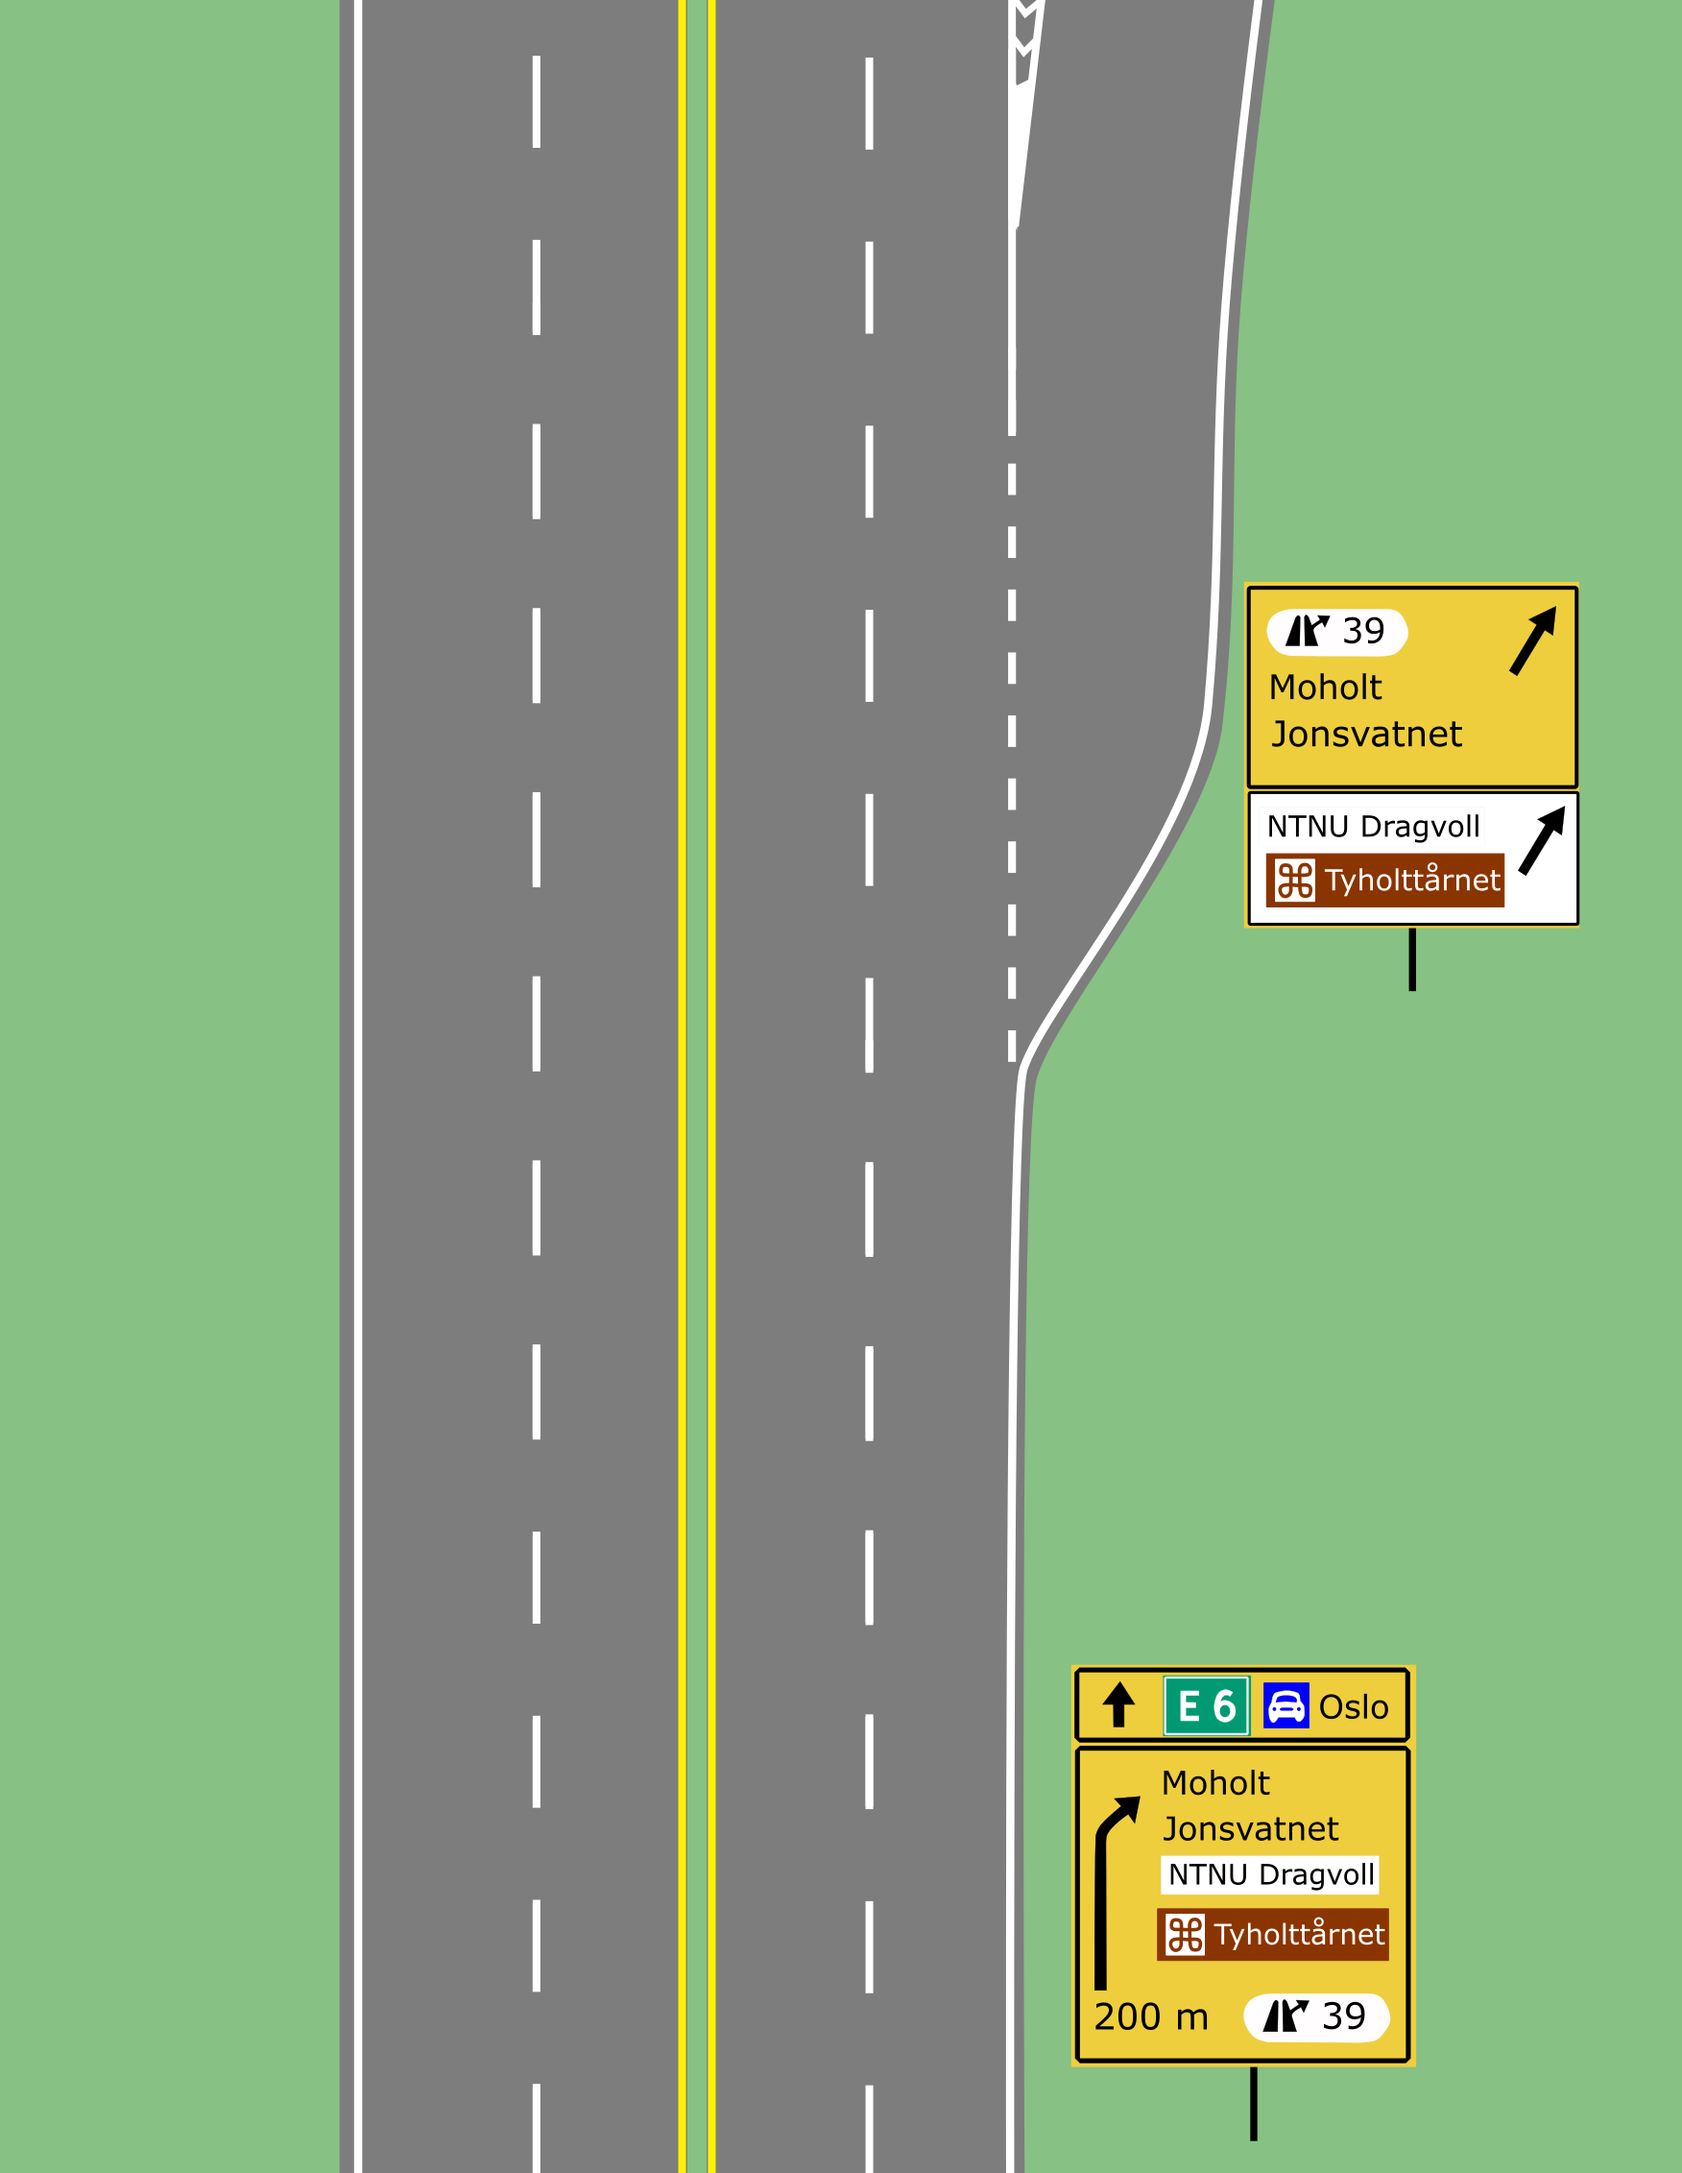
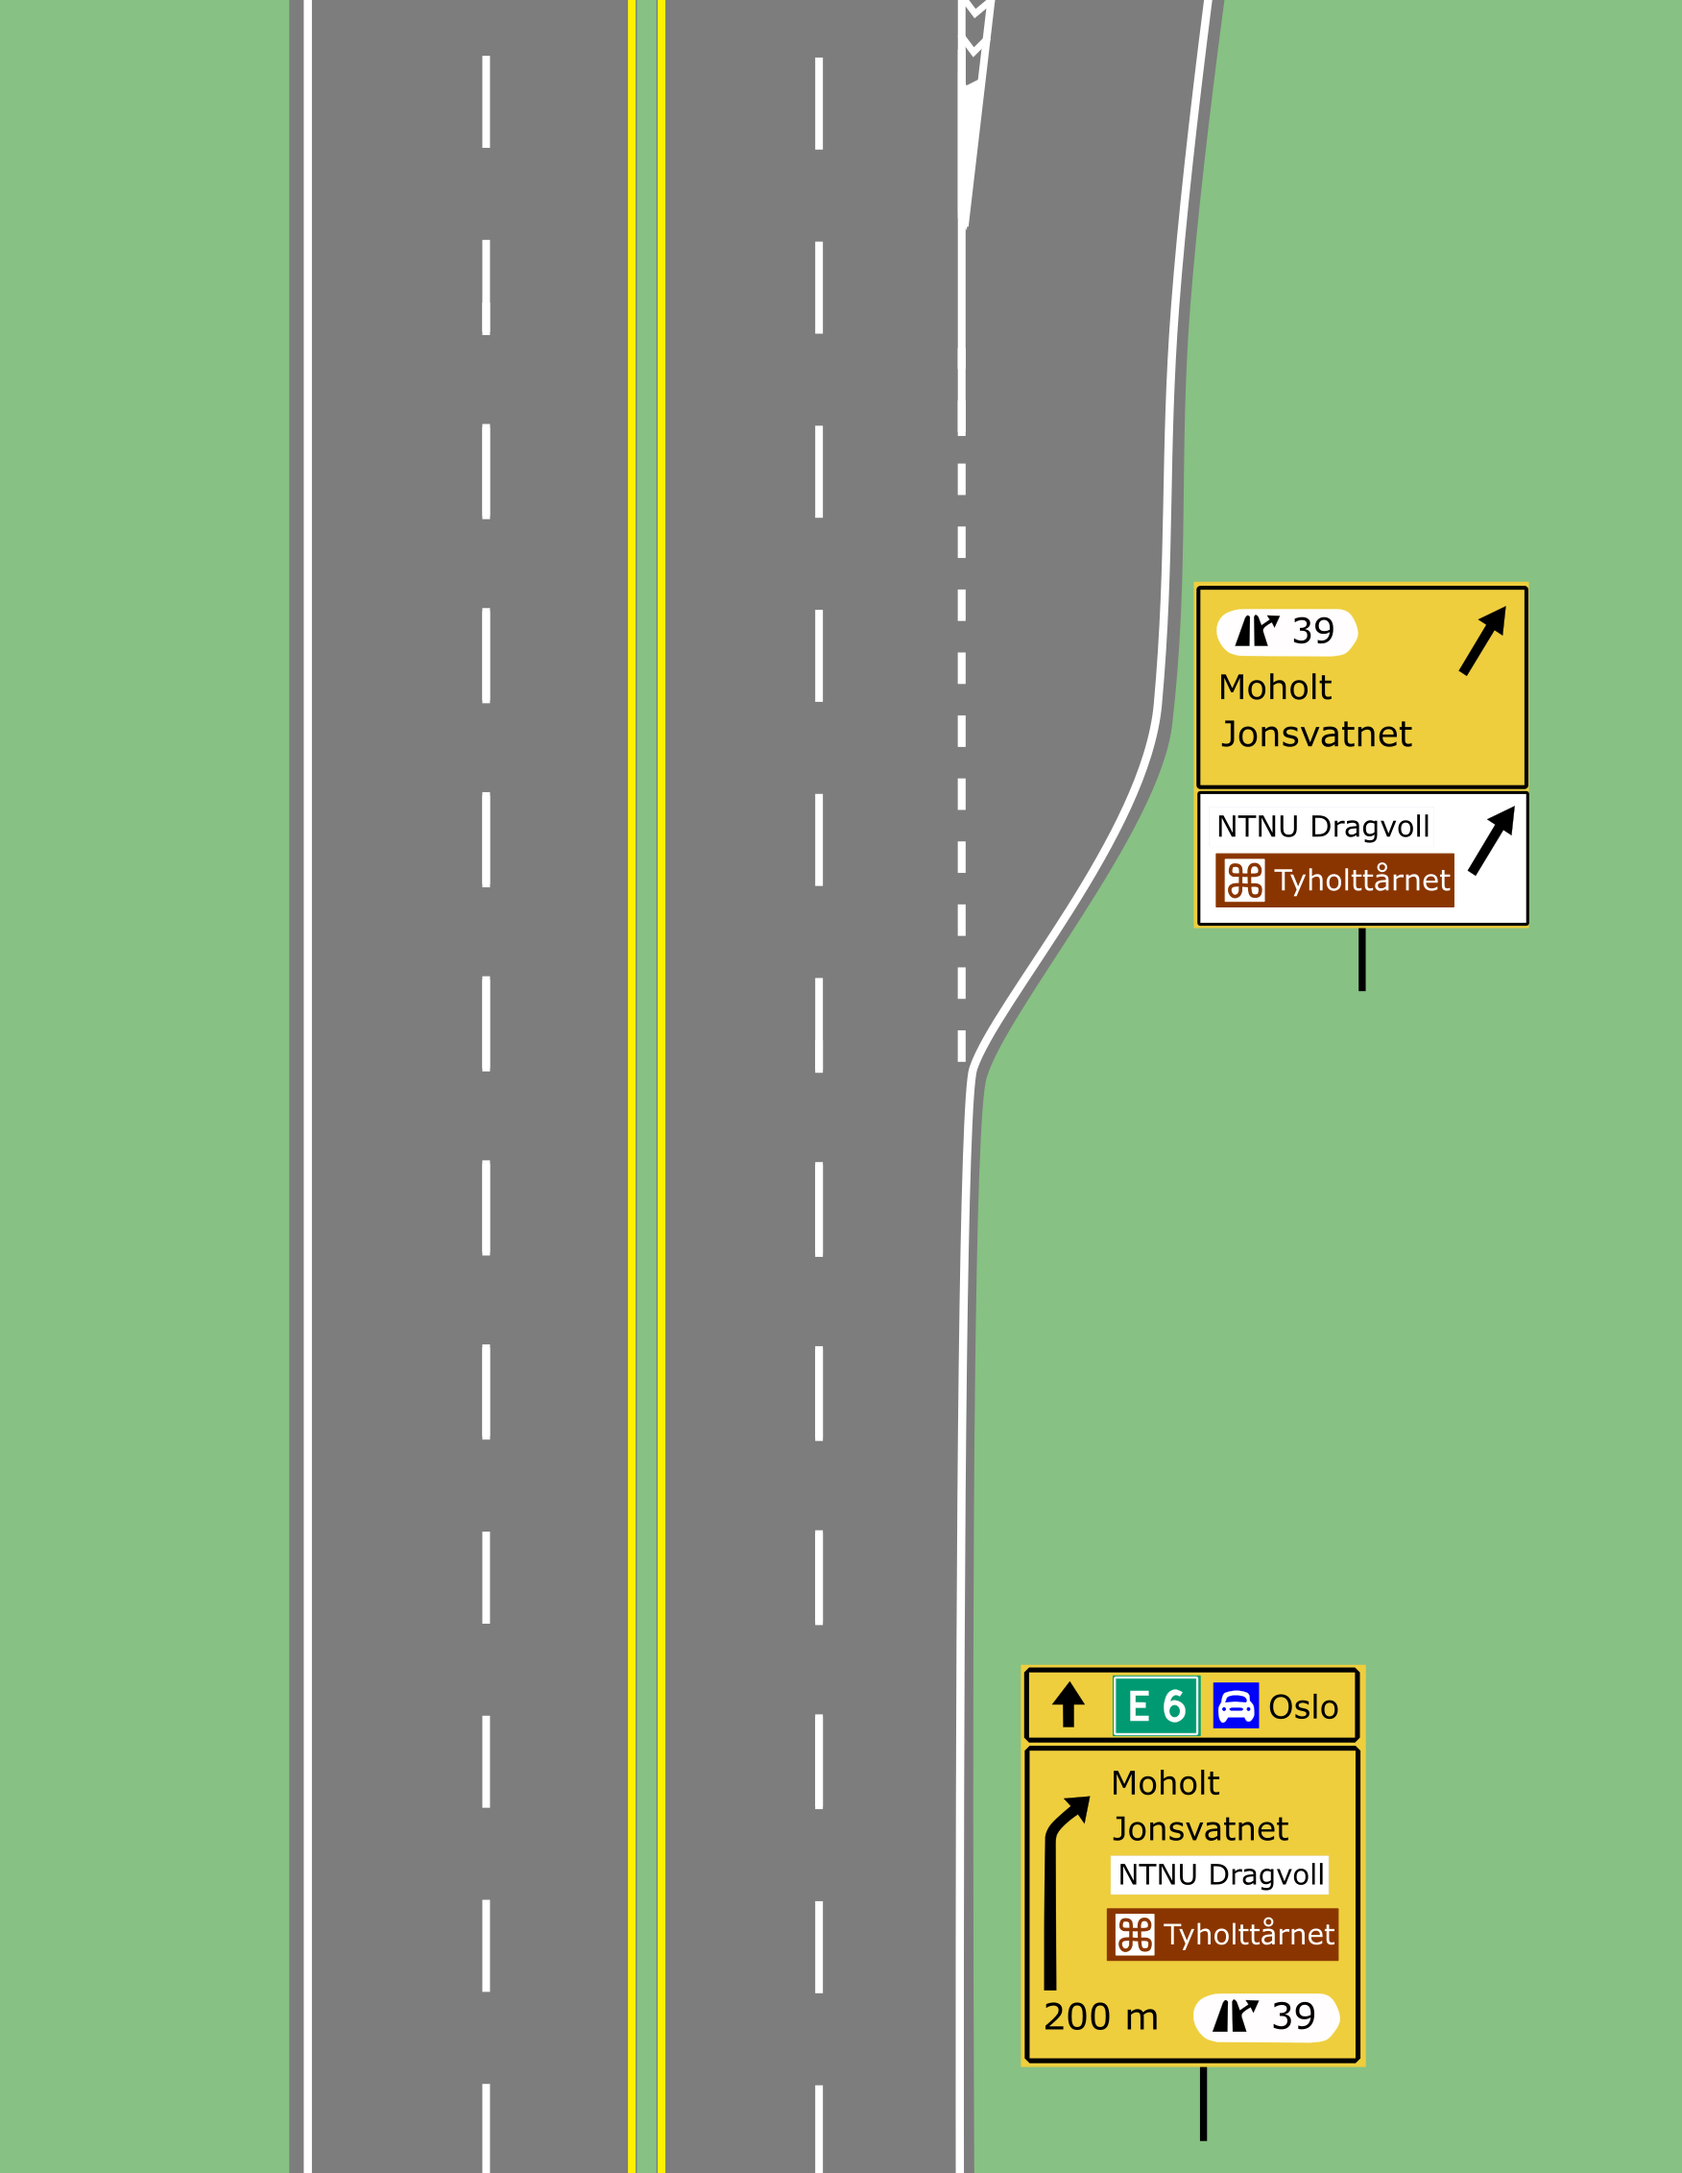
Modified an image + fixed scaling issues for backgroundImage in SketchArea

diff --git a/TrafikkApp/components/sketchComponents/SketchArea.js b/TrafikkApp/components/sketchComponents/SketchArea.js
@@ -5,7 +5,7 @@ import React, {
     useCallback,
     useContext,
 } from 'react';
-import { View, StyleSheet, ImageBackground } from 'react-native';
+import { View, StyleSheet, Image } from 'react-native';
 
 import MainView from '../reusableComponents/MainView';
 import SketchHeader from '../sketchHeaderComponents/SketchHeader';
@@ -184,10 +184,15 @@ const SketchArea = React.memo((props) => {
                     pencilSize={pencilSize}
                     chosenColor={chosenColor}
                 />
-                <ImageBackground
-                    resizeMode={'cover'}
-                    style={styles.backgroundImage}
-                    source={currentImg}>
+                <View style={styles.backgroundImageContainer}>
+                    <Image
+                        resizeMode={'cover'}
+                        style={styles.backgroundImage}
+                        source={currentImg}
+                    />
+                </View>
+
+                <View style={styles.sketchArea}>
                     <SketchCanvas
                         onStrokeStart={() => onStrokeStart()}
                         onStrokeEnd={() => onStrokeEnd()}
@@ -207,7 +212,7 @@ const SketchArea = React.memo((props) => {
                         extensionType={extensionType}
                         setExtensionType={setExtensionType}
                     />
-                </ImageBackground>
+                </View>
             </View>
 
             <BottomMenuAnimated
@@ -232,20 +237,33 @@ const styles = StyleSheet.create({
         backgroundColor: Colors.sketchBackground,
         justifyContent: 'center',
     },
+    sketchArea: {
+        flex: 1,
+        width: '100%',
+        height: '100%',
+    },
     sketchCanvas: {
         flex: 1,
         width: '100%',
         height: '100%',
         backgroundColor: 'transparent',
     },
-    backgroundImage: {
-        flex: 1, // Denne må fjernes hvis bildet ikke skal skalere opp
-        // marginVertical: 100,
+    backgroundImageContainer: {
+        position: 'absolute',
+        top: 80,
+        left: 0,
+        height: '100%',
         width: '100%',
-        height: '100%', // Må stå som 'undefined'
-        // aspectRatio: 1752 / 2263,
-        // alignSelf: 'center', // Må stå som 'stretch' hvis bildet ikke skal skalere opp
+        justifyContent: 'center',
+    },
+    backgroundImage: {
+        marginBottom: 80,
+        width: '100%',
+        height: undefined, // Må stå som 'undefined'
+        aspectRatio: 1752 / 2263,
+        alignSelf: 'center',
         backgroundColor: Colors.sketchBackground,
+        zIndex: 0,
     },
 });
 

diff --git a/TrafikkApp/components/draggable/Popout/PopoutItems.js b/TrafikkApp/components/draggable/Popout/PopoutItems.js
@@ -8,14 +8,8 @@ import { Colors } from '../../../styles';
 
 /**
  * Component for the items inside the animated popout menu
- * @param {dictionary} props
- * @returns popoutItems as small circles
- */
-
-/**
- * Component for the items inside the animated popout menu
- * @namespace MappingDraggable.Popout
- * @memberof PopoutItems
+ * @namespace PopoutItems
+ * @memberof Popout
  * @prop {int} radius radius of popout item
  * @prop {array[]} array array of colors or items in popout menu
  * @prop {function} setTintColor function to set the tintcolor of draggable
@@ -29,7 +23,7 @@ const PopoutItems = (props) => {
      * Function to calculate the x and y coordinates as a half circle
      * around an object. depending on which position the item has in
      * the array it is placed in
-     * @memberof MappingDraggable.Popout.PopoutItems
+     * @memberof Popout.PopoutItems
      * @param {int} index index of a popout item
      * @returns {int} the x position of the circle
      * @returns {int} the y position of the circle
@@ -54,7 +48,7 @@ const PopoutItems = (props) => {
     /**
      * Check what button is pressed
      * and change either tintcolor, remove it or delete item
-     * @memberof MappingDraggable.Popout.PopoutItems
+     * @memberof Popout.PopoutItems
      * @param {hex} color color of selected tint
      * @param {boolean} isRemoveButton if button is the remove button
      * @param {boolean} isResetButton if the button is the reset button (not working)

diff --git a/TrafikkApp/styles/colors.js b/TrafikkApp/styles/colors.js
@@ -31,8 +31,8 @@ export default {
     dividerSecondary: lightGray,
 
     // Text and icons
-    textSecondary: darkGray,
     textPrimary: white,
+    textSecondary: darkGray,
     icons: lightGray,
     iconActive: charcoal, // or mustard?
     drawerIconActive: blueGreen,
@@ -60,10 +60,10 @@ export default {
     startScreenLinkLink: charcoal,
 
     // Sketch screens
-    sketchBackground: charcoal,
+    sketchBackground: evenDarkerGray,
     componentMenu: charcoal,
-    componentMenuSection: darkCharcoal,
     componentMenuButtons: darkGray,
+    componentMenuSection: darkCharcoal,
 
     // SketchHeader
     boxIconActive: mustard,

diff --git a/TrafikkApp/components/sketchHeaderComponents/SketchHeader.js b/TrafikkApp/components/sketchHeaderComponents/SketchHeader.js
@@ -105,6 +105,7 @@ const SketchHeader = React.memo((props) => {
 
 const styles = StyleSheet.create({
     buttonSize: {
+        // flex: 1,
         height: 62,
         width: 62,
         justifyContent: 'center',
@@ -115,11 +116,12 @@ const styles = StyleSheet.create({
         // backgroundColor: Colors.header,
         borderBottomWidth: 1,
         borderBottomColor: Colors.dividerPrimary,
-        elevation: 8,
+        elevation: 10,
     },
     toolBar: {
         width: '100%',
         elevation: 10,
+        zIndex: 2,
     },
     spacedLeft: {
         flex: 1,

diff --git a/TrafikkApp/components/draggable/DraggableWithEverything.js b/TrafikkApp/components/draggable/DraggableWithEverything.js
@@ -1,10 +1,6 @@
-/* eslint-disable prettier/prettier */
-import React, { useState } from 'react';
-import { useCallback } from 'react';
-import { useEffect } from 'react';
-
+import React, { useState, useCallback, useEffect } from 'react';
 import DraggableComponentsMenu from '../draggableComponentsMenu/DraggableComponentsMenu';
-import DraggableDropZone from '../unusedComponents/DraggableDropzone';
+// import DraggableDropZone from '../unusedComponents/DraggableDropzone';
 import MappingDraggable from './MappingDraggables';
 
 /**

diff --git a/TrafikkApp/screens/CurriculumObjectivesScreen.js b/TrafikkApp/screens/CurriculumObjectivesScreen.js
@@ -79,7 +79,7 @@ const styles = StyleSheet.create({
     header: {
         borderBottomWidth: 1,
         borderBottomColor: Colors.dividerPrimary,
-        elevation: 8,
+        elevation: 10,
     },
     scrollView: {
         width: '100%',
